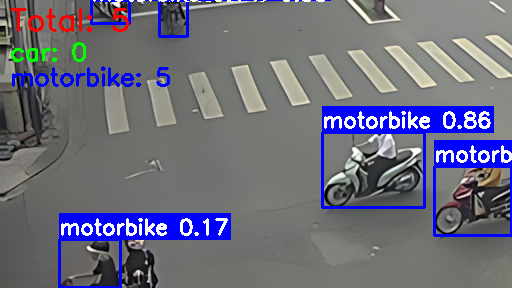
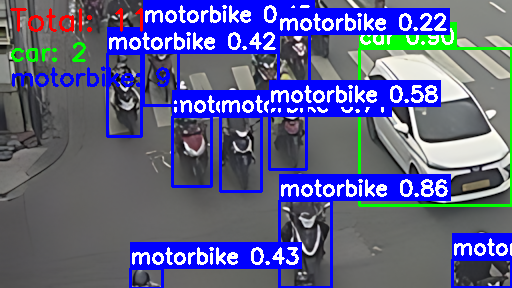
Tạm thời hoàn thành kết quả phần tiền xử lý

diff --git a/chapters/chapter4.tex b/chapters/chapter4.tex
@@ -27,7 +27,7 @@
     \label{fig:comparison_images}
 \end{figure}
 
-Kết quả trong hình \ref{fig:comparison_images} cho thấy sự khác biệt rõ rệt giữa ảnh gốc và ảnh đã qua bước tiền xử lý. Ảnh sau khi được tăng cường chất lượng có độ nét cao hơn, chi tiết rõ ràng hơn, giúp cải thiện khả năng nhận diện các đối tượng trong ảnh. Ảnh đầu vào ban đầu chỉ có kích thước 640x360 pixel, trong khi ảnh sau khi qua bước tiền xử lý đã được nâng cấp lên kích thước 1280x720 pixel, giúp tăng cường độ phân giải và chi tiết của ảnh.
+Lấy một ảnh từ một địa điểm là ở nút giao Đinh Bộ Lĩnh - Bạch Đằng, vào ngày 23-09-2025 lúc 15:44:45.Kết quả trong hình \ref{fig:comparison_images} cho thấy sự khác biệt rõ rệt giữa ảnh gốc và ảnh đã qua bước tiền xử lý. Ảnh sau khi được tăng cường chất lượng có độ nét cao hơn, chi tiết rõ ràng hơn, giúp cải thiện khả năng nhận diện các đối tượng trong ảnh. Ảnh đầu vào ban đầu chỉ có kích thước 640x360 pixel, trong khi ảnh sau khi qua bước tiền xử lý đã được nâng cấp lên kích thước 1280x720 pixel, giúp tăng cường độ phân giải và chi tiết của ảnh.
 
 Sau khi hoàn thành bước tăng cường chất lượng ảnh, đề tài tiến hành chia nhỏ ảnh thành 4 phần bằng nhau với kích thước mỗi ảnh nhỏ là 640x360 pixel để phù hợp với kích thước đầu vào của mô hình YOLOv11. Việc chia nhỏ ảnh giúp mô hình có thể xử lý hiệu quả hơn và tăng khả năng nhận diện các đối tượng trong ảnh. Dưới đây là kết quả sau khi chia nhỏ ảnh:
 \begin{figure}[H]
@@ -64,6 +64,7 @@ Sau khi hoàn thành bước tăng cường chất lượng ảnh, đề tài ti
 \end{figure}
 
 \section{KẾT QUẢ NHẬN DIỆN VÀ PHÂN TÍCH ĐỐI TƯỢNG}
+\subsection{Kết quả nhận diện, phân loại và đếm phương tiện giao thông}
 Sau khi hoàn thành bước tiền xử lý ảnh, đề tài tiến hành sử dụng mô hình YOLOv11 để nhận diện, phân loại và đếm số lượng các phương tiện giao thông có trong ảnh vừa được tăng cường chất lượng. Với các thông số cấu hình của mô hình học sâu YOLOv11 được thiết lập như sau:
 \begin{itemize}
     \item \textbf{Mô hình: } YOLOv11n
@@ -79,7 +80,7 @@ Sau khi hoàn thành bước tiền xử lý ảnh, đề tài tiến hành sử
     \begin{subfigure}{0.45\textwidth}
         \centering
         \includegraphics[width=\textwidth]{fig/detect_q1_tl.png}
-        \caption{Ảnh giao thông sau khi qua nhận diện phương tiện 4 bánh kết hợp với tính toán \% che phủ - Phần trên bên trái}
+        \caption{Ảnh giao thông sau khi qua nhận diện phương tiện 4 bánh kết hợp với tính toán phần trăm che phủ - Phần trên bên trái}
         \label{fig:detect_q1_tl}
     \end{subfigure}
     \hfill
@@ -107,7 +108,7 @@ Sau khi hoàn thành bước tiền xử lý ảnh, đề tài tiến hành sử
     \label{fig:4_detect_quadrants}
 \end{figure}
 
-Nhìn vào hình \ref{fig:4_detect_quadrants} có thể thấy kết quả nhận diện các phương tiện giao thông trong từng phần của ảnh sau khi đã qua bước tiền xử lý. Ở phần ảnh trên bên trái \ref{fig:detect_q1_tl}, ở địa điểm này và ở khung hình này đã có sẵn cấu hình cho segment để có thể tính \% che phủ của xe 2 bánh. Nguyên nhân là do trong phần ảnh này có quá nhiều xe 2 bánh kèm đến chất lượng hình ảnh kém và góc quay không thuận lợi, dẫn đến việc nếu chỉ nhận diện bằng mô hình YOLOv11 thì sẽ không thể nhận diện và phân loại được đa số xe 2 bánh có trong ảnh. Độ che phủ của xe máy được tô đỏ và tính ra \% hiển thị trên ảnh, các xe 4 bánh thì vẫn được nhận diện bình thường. Còn các phần ảnh còn lại, do chất lượng khung hình vẫn còn tốt để model có thể nhận diện và phân loại nên không cần phân đoạn và tính \% che phủ nữa. Ảnh mask của phần ảnh bên trái \ref{fig:detect_q1_tl} được hiển thị thông qua hình dưới đây:
+Nhìn vào hình \ref{fig:4_detect_quadrants} có thể thấy kết quả nhận diện các phương tiện giao thông trong từng phần của ảnh sau khi đã qua bước tiền xử lý. Ở phần ảnh trên bên trái \ref{fig:detect_q1_tl}, ở địa điểm này và ở khung hình này đã có sẵn cấu hình cho segment để có thể tính phần trăm che phủ của xe 2 bánh. Nguyên nhân là do trong phần ảnh này có quá nhiều xe 2 bánh kèm đến chất lượng hình ảnh kém và góc quay không thuận lợi, dẫn đến việc nếu chỉ nhận diện bằng mô hình YOLOv11 thì sẽ không thể nhận diện và phân loại được đa số xe 2 bánh có trong ảnh. Độ che phủ của xe hai bánh được tô đỏ và tính ra \% hiển thị trên ảnh, các xe 4 bánh thì vẫn được nhận diện bình thường. Còn các phần ảnh còn lại, do chất lượng khung hình vẫn còn tốt để model có thể nhận diện và phân loại nên không cần phân đoạn và tính phần trăm che phủ nữa. Ảnh mask của phần ảnh bên trái \ref{fig:detect_q1_tl} được hiển thị thông qua hình dưới đây:
 
 \begin{figure}[H]
     \centering
@@ -116,19 +117,45 @@ Nhìn vào hình \ref{fig:4_detect_quadrants} có thể thấy kết quả nhậ
     \label{fig:mask_xe_may}
 \end{figure}
 
-Có thể thấy trong hình \ref{fig:mask_xe_may} là ảnh mask được sử dụng để tính toán \% che phủ của xe máy trong phần ảnh trên bên trái. Mặc dù ảnh mask có chất lượng không cao do vẫn bị nhiễu bởi các yếu tố môi trường như bóng cây, bóng người, vạch kẻ đường,... nhưng con số nhiễu ở ảnh này là không đáng kể so với tổng diện tích của segment. Ngoài ra, nếu có đoạn ảnh bị nhiễu quá cao do vạch kẻ đường lớn thì trong đề tài này phải tự động cấu hình để loại bỏ vùng nhiễu đó ra, không tính vào diện tích che phủ của xe máy trong segment. Trường hợp đó được thể hiện dưới đây:
-
+Có thể thấy trong hình \ref{fig:mask_xe_may} là ảnh mask được sử dụng để tính toán phần trăm che phủ của xe bánh trong phần ảnh trên bên trái. Mặc dù ảnh mask có chất lượng không cao do vẫn bị nhiễu bởi các yếu tố môi trường như bóng cây, bóng người, vạch kẻ đường,... nhưng con số nhiễu ở ảnh này là không đáng kể so với tổng diện tích của segment.
 
 \begin{figure}[H]
     \centering
-    \begin{subfigure}{1\textwidth}
+    \includegraphics[width=\textwidth]{fig/result_segment.jpg}
+    \caption[Hình trực quan cuối cùng sau khi ghép 4 hình con lại]{Hình trực quan cuối cùng sau khi ghép 4 hình con lại}
+    \label{fig:result_segment}
+\end{figure}
+
+Dựa vào hình \ref{fig:result_segment} có thể thấy ảnh cuối cùng sau khi ghép 4 phần ảnh con lại với nhau. Ở phần ảnh trên bên trái đã hiển thị được phần trăm che phủ của xe hai bánh trong segment, còn các phần ảnh khác vẫn giữ nguyên kết quả nhận diện và phân loại phương tiện giao thông bằng mô hình YOLOv11. Phần kết quả cuối cùng là phần được ghi vào tệp CSV, được thể hiện timestamp, số lượng xe 2 bánh, số lượng xe 4 bánh và phần trăm che phủ của xe hai bánh trong segment của mỗi phần ảnh. Kết quả được thể hiện trong hình \ref{fig:csv_final}:
+
+\begin{figure}[H]
+    \centering
+    \includegraphics[width=\textwidth]{fig/csv_final.png}
+    \caption[Ảnh kết quả ghi vào tệp CSV]{Ảnh kết quả ghi vào tệp CSV}
+    \label{fig:csv_final} 
+\end{figure}
+
+Sau đó phần trăm che phủ của xe hai bánh trong segment sẽ được đưa qua thêm một bước chia với phần trăm che phủ trung bình của một xe để có thể ước lượng được số xe hai bánh có trong vùng đó. Kết quả của lượng xe hai bánh được ước lượng sẽ được tính chung trong quá trình tính số lượng phương tiện trung bình có trong một ngày mỗi năm phút, kết quả có thể được ví dụ như hình \ref{fig:csv_static}:
+
+\begin{figure}[H]
+    \centering
+        \includegraphics[width=\textwidth]{fig/csv_static.png}
+        \caption[Ảnh kết quả số lượng phương tiện được quy về mỗi 5 phút]{Ảnh kết quả số lượng phương tiện được quy về mỗi 5 phút}
+    \label{fig:csv_static} 
+\end{figure}
+
+Ngoài ra, nếu có đoạn ảnh bị nhiễu quá cao do vạch kẻ đường lớn thì trong đề tài này phải tự động cấu hình để loại bỏ vùng nhiễu đó ra, không tính vào diện tích che phủ của xe hai bánh trong segment. Trường hợp đó được thể hiện dưới đây:
+
+\begin{figure}[H]
+    \centering
+    \begin{subfigure}{0.45\textwidth}
         \centering
         \includegraphics[width=\textwidth]{fig/no_exclusion_image.png}
         \caption{Vạch kẻ đường gây nhiễu trong ảnh giao thông}
         \label{fig:no_exclusion_image}
     \end{subfigure}
     \hfill
-    \begin{subfigure}{1\textwidth}
+    \begin{subfigure}{0.45\textwidth}
         \centering
         \includegraphics[width=\textwidth]{fig/no_exclusion_mask.png}
         \caption{Vạch kẻ đường được loại bỏ trong ảnh mask}
@@ -138,18 +165,18 @@ Có thể thấy trong hình \ref{fig:mask_xe_may} là ảnh mask được sử 
     \label{fig:no_exclusion_image_zone}
 \end{figure}
 
-Trong hình \ref{fig:no_exclusion_image_zone} cho thấy rằng những vạch kẻ đường đã làm nhiễu lớn trong quá trình tính toán \% che phủ của xe máy. Do đó, để đảm bảo tính chính xác của kết quả, đề tài đã thực hiện loại bỏ vùng nhiễu này ra khỏi quá trình tính toán. Kết quả sau khi loại bỏ vùng nhiễu được thể hiện bằng cách loại bỏ các vùng nhiễu đi, như hình dưới đây:
+Trong hình \ref{fig:no_exclusion_image_zone} cho thấy rằng những vạch kẻ đường đã làm nhiễu lớn trong quá trình tính toán phần trăm che phủ của xe hai bánh. Do đó, để đảm bảo tính chính xác của kết quả, đề tài đã thực hiện loại bỏ vùng nhiễu này ra khỏi quá trình tính toán. Kết quả sau khi loại bỏ vùng nhiễu được thể hiện bằng cách loại bỏ các vùng nhiễu đi, như hình \ref{fig:exclusion_image_zone} dưới đây:
 
 \begin{figure}[H]
     \centering
-    \begin{subfigure}{1\textwidth}
+    \begin{subfigure}{0.45\textwidth}
         \centering
         \includegraphics[width=\textwidth]{fig/exclusion_image.png}
         \caption{Loại bỏ vạch kẻ đường gây nhiễu trong ảnh giao thông}
         \label{fig:exclusion_image}
     \end{subfigure}
     \hfill
-    \begin{subfigure}{1\textwidth}
+    \begin{subfigure}{0.45\textwidth}
         \centering
         \includegraphics[width=\textwidth]{fig/exclusion_mask.png}
         \caption{Vạch kẻ đường được loại bỏ trong ảnh mask}
@@ -159,7 +186,40 @@ Trong hình \ref{fig:no_exclusion_image_zone} cho thấy rằng những vạch k
     \label{fig:exclusion_image_zone}
 \end{figure}
 
-Như vậy, sau khi loại bỏ vùng nhiễu, kết quả tính toán \% che phủ của xe máy sẽ chính xác hơn, giúp cải thiện hiệu quả nhận diện và phân loại các phương tiện giao thông trong ảnh. Việc này đặc biệt quan trọng trong các tình huống có nhiều yếu tố gây nhiễu, đảm bảo rằng hệ thống nhận diện hoạt động một cách hiệu quả và chính xác nhất có thể.
+Như vậy, sau khi loại bỏ vùng nhiễu, kết quả tính toán phần trăm che phủ của xe hai bánh sẽ chính xác hơn, giúp cải thiện hiệu quả nhận diện và phân loại các phương tiện giao thông trong ảnh. Việc này đặc biệt quan trọng trong các tình huống có nhiều yếu tố gây nhiễu, đảm bảo rằng hệ thống nhận diện hoạt động một cách hiệu quả và chính xác nhất có thể.
+
+\subsection{So sánh kết quả nhận diện phương tiện giao thông giữa sử dụng thuần mô hình YOLOv11 và kết hợp mô hình YOLOv11 với phân đoạn và tính phần trăm che phủ}
+
+\begin{figure}[H]
+    \centering
+    \begin{subfigure}{0.75\textwidth}
+        \centering
+        \includegraphics[width=\textwidth, keepaspectratio]{fig/result_no_segment.jpg}
+        \caption{Kết quả nhận diện phương tiện giao thông sử dụng thuần mô hình YOLOv11}
+        \label{fig:result_no_segment}
+    \end{subfigure}
+    \hfill
+    \begin{subfigure}{0.75\textwidth}
+        \centering
+        \includegraphics[width=\textwidth, keepaspectratio]{fig/result_segment.jpg}
+        \caption{Kết quả nhận diện phương tiện giao thông sử dụng mô hình YOLOv11 kết hợp phân đoạn và tính phần trăm che phủ}
+        \label{fig:result_segment_1}
+    \end{subfigure}
+    \caption[So sánh kết quả nhận diện phương tiện giao thông]{So sánh kết quả nhận diện phương tiện giao thông giữa sử dụng thuần mô hình YOLOv11 và kết hợp mô hình YOLOv11 với phân đoạn và tính phần trăm che phủ}
+    \label{fig:result_comparison}
+\end{figure}
+
+Nhìn vào hình \ref{fig:result_comparison} có thể thấy rõ sự khác biệt trong kết quả nhận diện phương tiện giao thông giữa hai phương pháp. Ở hình \ref{fig:result_no_segment}, khi sử dụng thuần mô hình YOLOv11, nhiều xe hai bánh đã không được nhận diện do chất lượng ảnh kém và góc quay không thuận lợi. Trong khi đó, ở hình \ref{fig:result_segment_1}, khi kết hợp mô hình YOLOv11 với phân đoạn và tính phần trăm che phủ, hệ thống đã có thể ước lượng chính xác số lượng xe hai bánh trong vùng, ngay cả khi chúng không thể được nhận diện trực tiếp. Ta có thể dựa vào phần trăm che phủ của một xe hai bánh trung bình để ước lượng số lượng xe hai bánh có trong segment, như hình \ref{fig:dbl_convention} dưới đây:
+
+\begin{figure}[H]
+    \centering
+    \includegraphics[width=\textwidth]{fig/dbl_convention.png}
+    \caption[Phần trăm che phủ trung bình của một xe hai bánh]{Phần trăm che phủ trung bình của một xe hai bánh theo từng vùng segment tại địa điểm Đinh Bộ Lĩnh - Bạch Đằng 3}
+    \label{fig:dbl_convention}
+\end{figure}
+
+Dựa vào quy ước chuyển đổi số lượng xe hai bánh ở hình \ref{fig:dbl_convention} cho phần ảnh trên cùng bên trái cùng với phần trăm che phủ của xe hai bánh của segment ở hình \ref{fig:result_segment_1}, ta có thể ước lượng được số lượng xe hai bánh trong vùng đầu tiên là: $40.6\% \div 1\% \approx 41$ xe hai bánh và vùng thứ hai là: $4.4\% \div 0.75\% \approx 6$ xe hai bánh. Như vậy so với việc chỉ sử dụng thuần mô hình YOLOv11 thì ta đã có thể nhận diện và ước lượng được thêm 47 xe hai bánh nữa trong ảnh, giúp cải thiện đáng kể hiệu quả nhận diện và phân loại phương tiện giao thông trong các tình huống có nhiều xe hai bánh và chất lượng ảnh kém.
+
 
 
 
